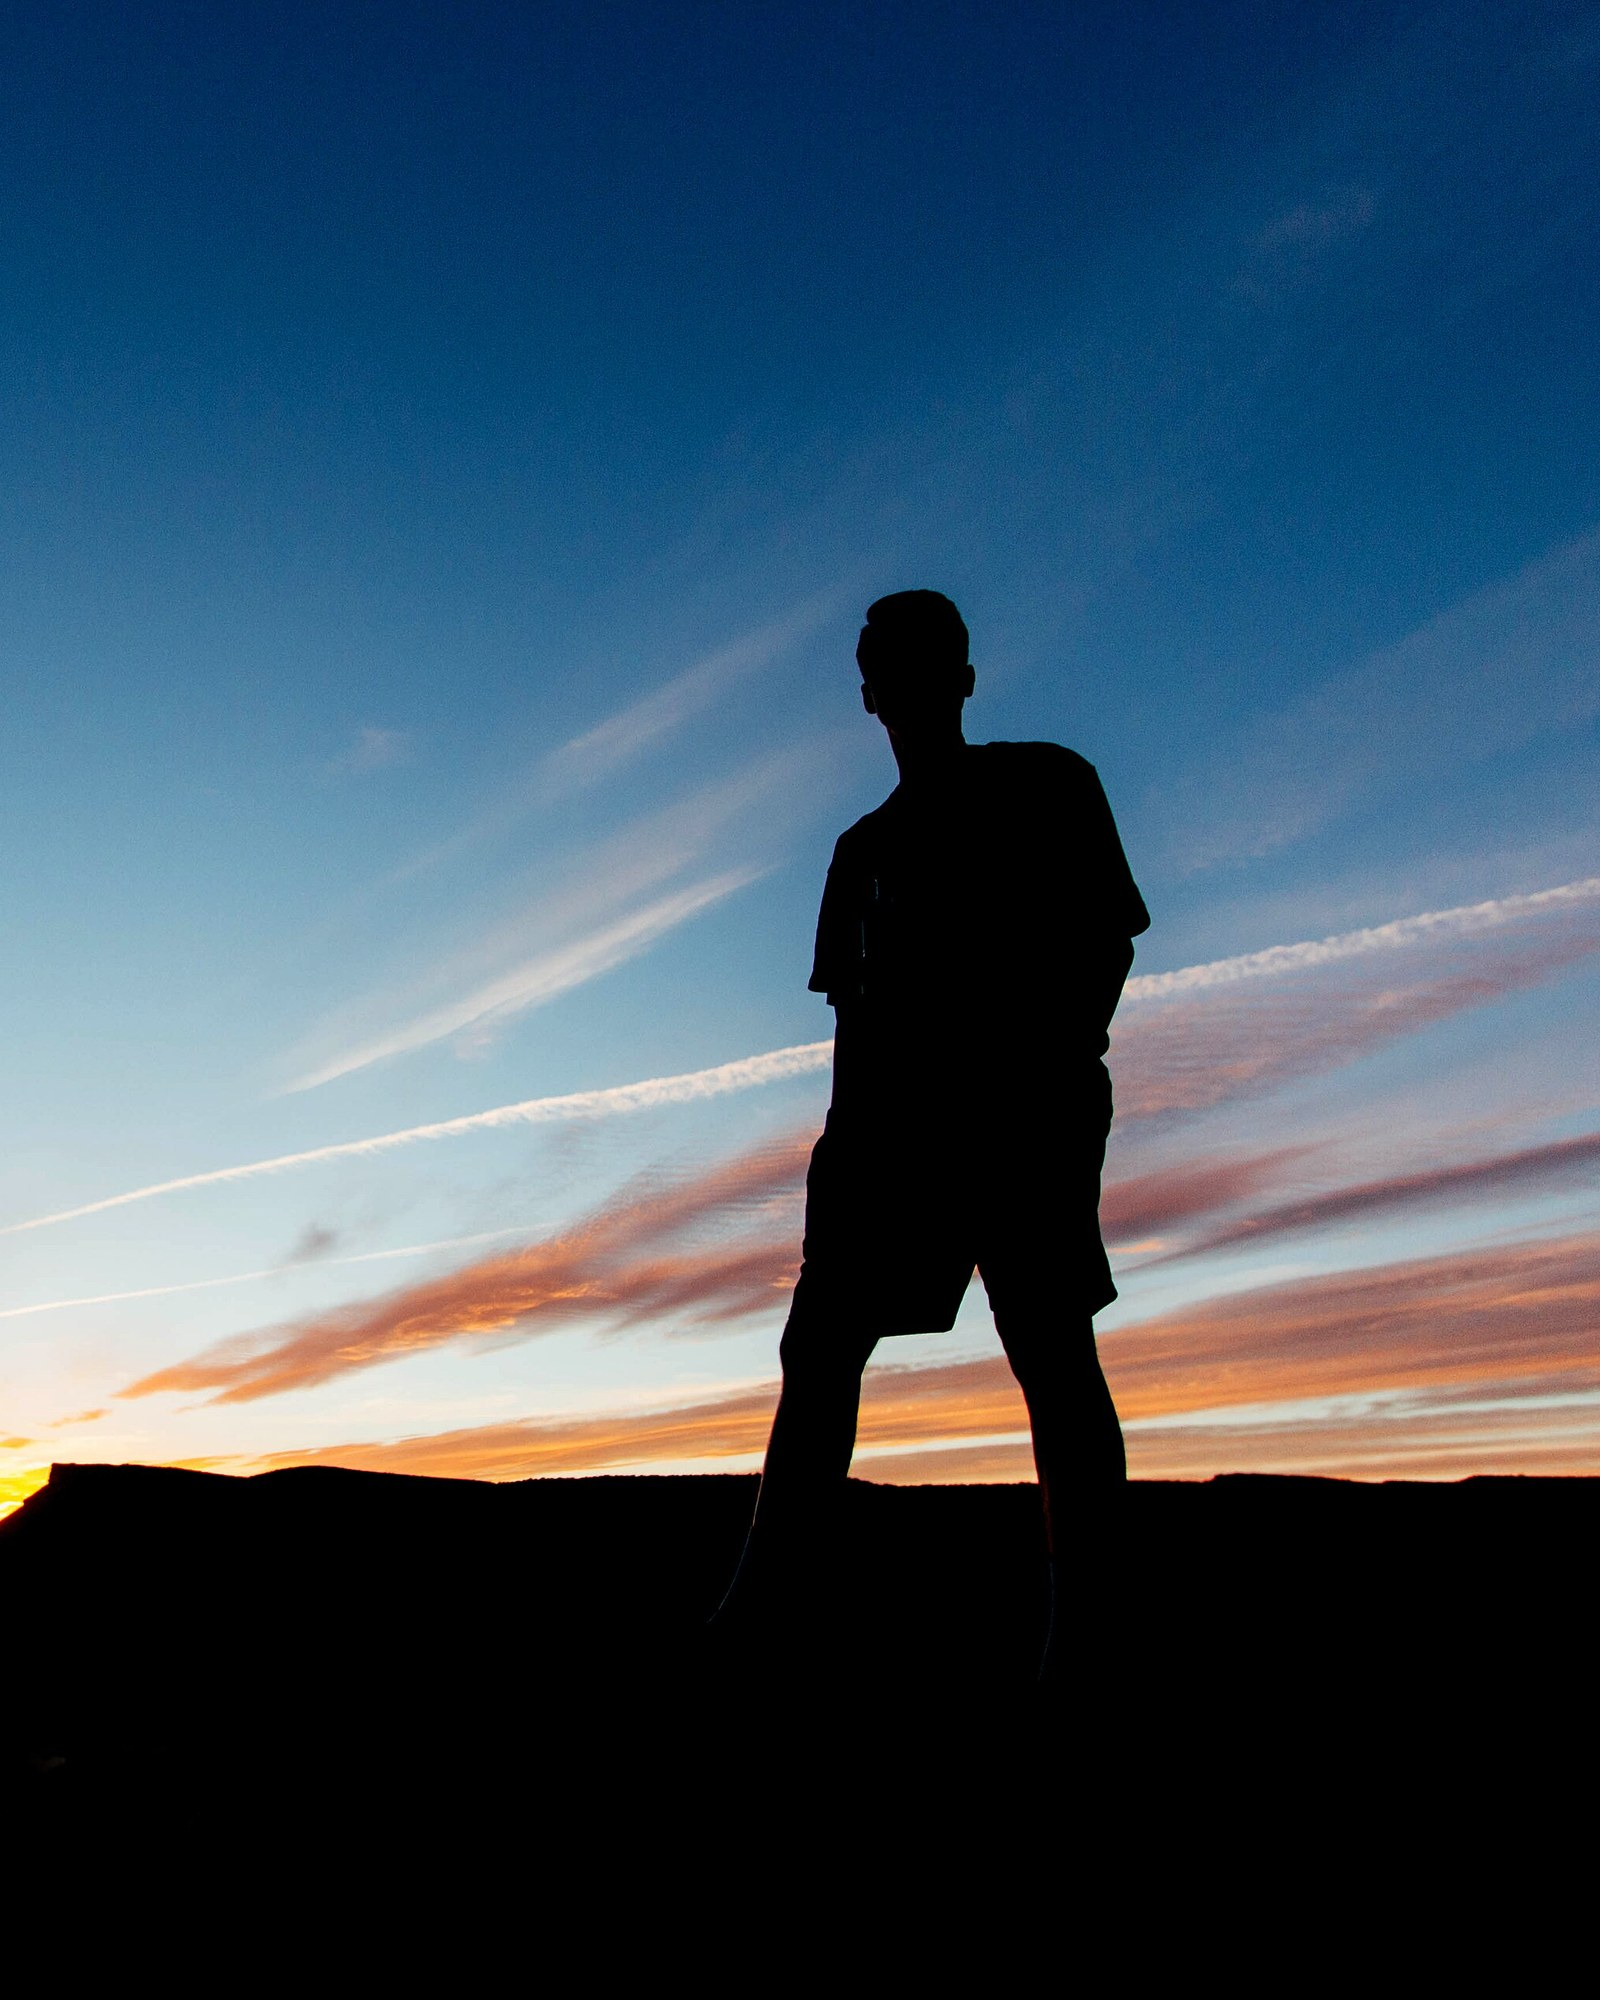
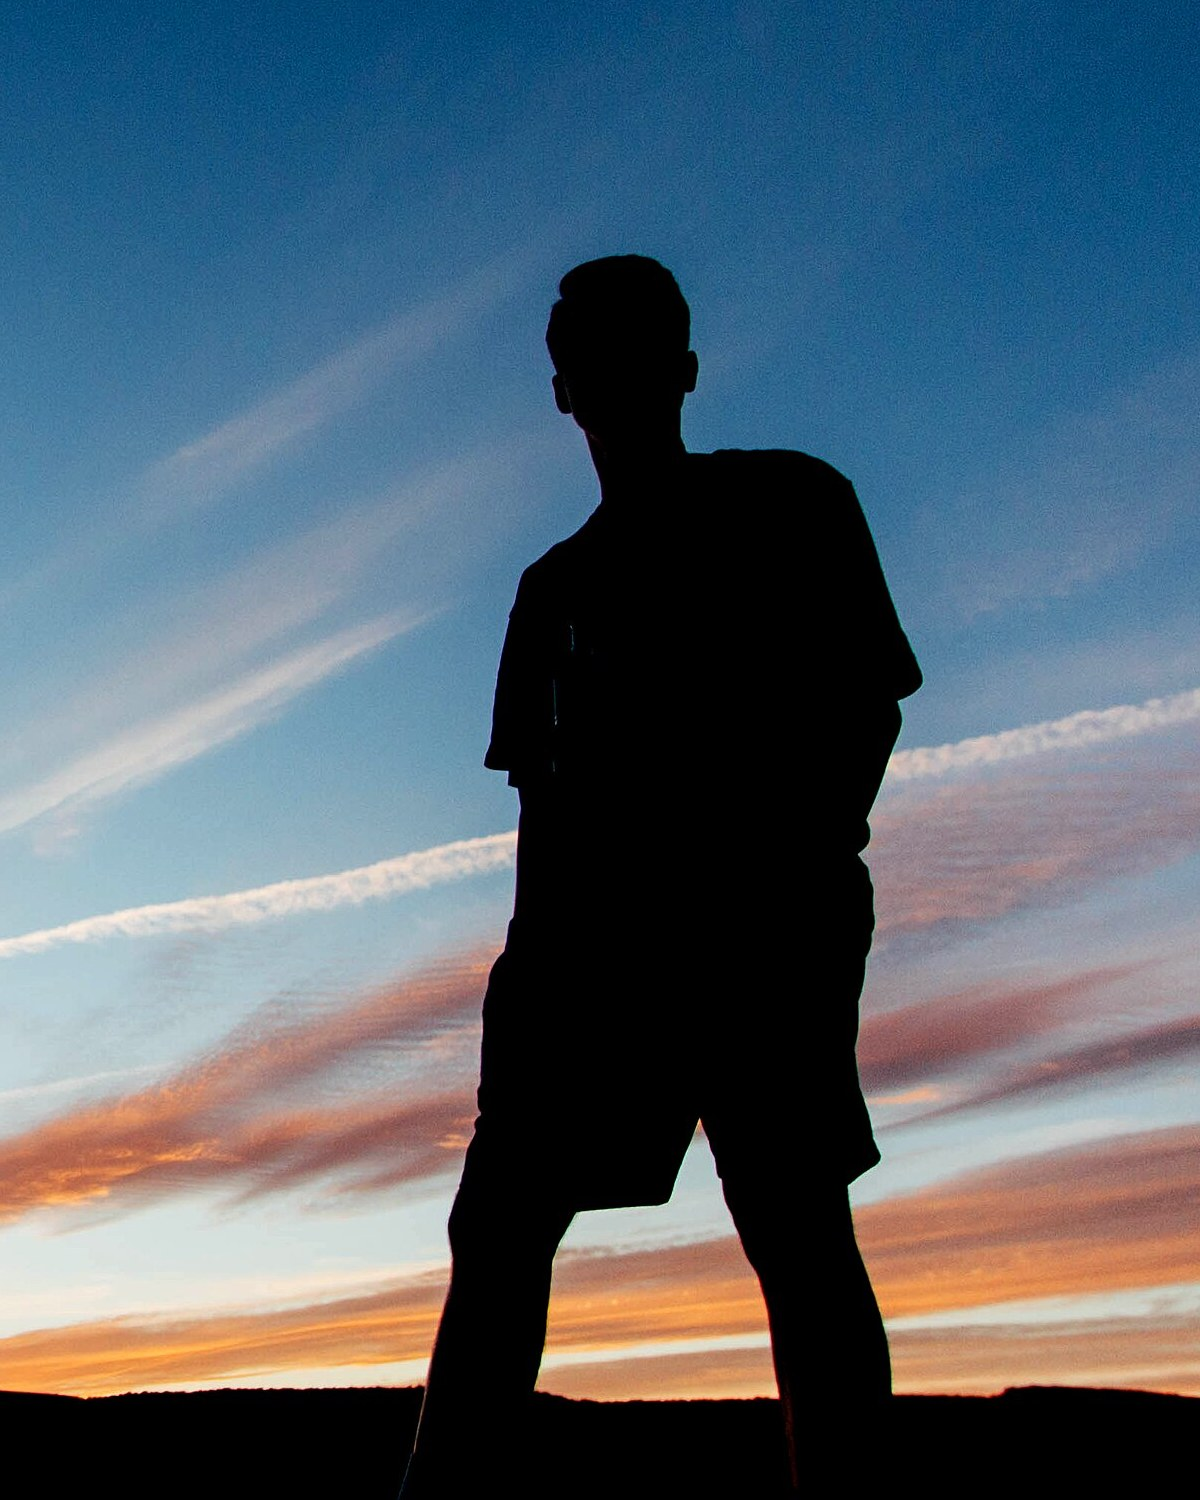
fix(site-templates): Marigold Marquee polish
The hero portrait is now a speaker seen from behind addressing an
audience, a US federal public domain work of the National Cancer
Institute (1988), in place of an Unsplash file whose CC0 rested on an
undated upload; a cap's printed emblem is painted out. about.jpg records
the dates that put it under Unsplash's CC0 and is cropped closer, so the
figure fills the frame and the frame's corner reads on the ink.

The featured event's See all dates link sits under its sentence and the
panel's columns are centred on each other; the Events list closes with a
hairline under its last row; a portrait is ringed in the base colour, so
its frame and the offset block stay two shapes with no photo; the
footer's note and tagline are shorter. Stale comments and the unused
position options are gone.

diff --git a/packages/sdk-components-organizeos/src/site-templates/campaign/marigold-marquee/sections.tsx b/packages/sdk-components-organizeos/src/site-templates/campaign/marigold-marquee/sections.tsx
@@ -40,8 +40,8 @@ import {
   titleStyles,
 } from "./styles";
 
-// The sections more than one of Marigold Marquee's pages use, each a kit
-// section named from the vocabulary.
+// The sections Marigold Marquee's pages are built from, each a kit section
+// named from the vocabulary.
 
 /**
  * Page header: Plain, on the ink: the eyebrow names the page, the h1 says
@@ -243,8 +243,9 @@ export const issuesRows = ({
 /**
  * Events: Card grid, of one: the next event, featured in a marigold-outlined
  * panel beside the reason to come and a "See all dates" link to the Events
- * page, where the Event List is. On phones the card follows the text and the
- * link follows the card.
+ * page, where the Event List is; the two columns centred on each other, so
+ * the shorter one sits in the middle of the taller. On phones the card
+ * follows the text and its link.
  */
 export const featuredEvent = ({
   placeBlock,
@@ -268,7 +269,7 @@ export const featuredEvent = ({
           ...css`
             display: grid;
             grid-template-columns: minmax(0, 5fr) minmax(0, 6fr);
-            grid-template-rows: auto 1fr;
+            align-items: center;
             column-gap: ${SPACE[64]};
             row-gap: ${SPACE[24]};
             padding-top: ${SPACE[48]};
@@ -284,7 +285,6 @@ export const featuredEvent = ({
             }
             ${BREAKPOINT.landscape} {
               grid-template-columns: minmax(0, 1fr);
-              grid-template-rows: auto;
               row-gap: ${SPACE[24]};
               padding-top: ${SPACE[24]};
               padding-right: ${SPACE[16]};
@@ -298,16 +298,6 @@ export const featuredEvent = ({
           {text("p", eyebrowStyles(), eyebrow, "Eyebrow")}
           {text("h2", headingStyles(), heading)}
           {text("p", paragraphStyles(), intro)}
-        </ws.element>
-        <ws.element
-          ws:tag="div"
-          ws:style={css`
-            align-self: end;
-            ${BREAKPOINT.landscape} {
-              order: 2;
-            }
-          `}
-        >
           {quietLink(pageIds, { label: "See all dates", pageKey: "events" })}
         </ws.element>
         {placeBlock("@organizeos/site-components:EventCard", "featured", {
@@ -318,9 +308,9 @@ export const featuredEvent = ({
   });
 
 /**
- * Events: List. The Event List of everything coming up as dated rows, each
- * under a hairline as the issues' rows are; its looks are in the template's
- * blockTokens (./block-tokens).
+ * Events: List. The Event List of everything coming up as dated rows
+ * between hairlines, as the issues' rows are; its looks are in the
+ * template's blockTokens (./block-tokens).
  */
 export const eventsList = ({
   placeBlock,
@@ -384,8 +374,8 @@ const opportunity = (
 );
 
 /**
- * Volunteer opportunities: Cards, three up (two from 768px to 991px), one
- * column on phones, each under a mint top rule with a link to `link`.
+ * Volunteer opportunities: Cards, three up from 768px, one column on phones,
+ * each under a mint top rule with a link to `cardLink`.
  */
 export const opportunitiesSection = ({
   pageIds,

diff --git a/packages/sdk-components-organizeos/src/site-templates/campaign/marigold-marquee/index.tsx b/packages/sdk-components-organizeos/src/site-templates/campaign/marigold-marquee/index.tsx
@@ -17,20 +17,30 @@ import { volunteer } from "./pages/volunteer";
 // section 5.1, template 4; its look is
 // 2026-10-31-website-template-directions.md, section 2.4, the wave's one dark
 // base). Its pages are in ./pages; what they share is its look (./styles),
-// its pieces (./parts), the sections more than one page uses (./sections)
+// its pieces (./parts), the sections its pages are built from (./sections)
 // and the sample items (./sample-content); its look for the platform blocks
 // it places is ./block-tokens. Donate is the platform's /donate, linked,
 // never a page of the template. Neutral for any party or none: no party,
 // position, real person or place is named, and no photo shows a face that
 // could be read as the candidate's.
 //
-// The two portraits are CC0 photos from Unsplash (2016 and 2017, before its
-// licence changed), by way of Wikimedia Commons, each a figure in
-// silhouette: cropped 4:5, resized and compressed. volunteer.jpg is a public
-// domain work of the US Army Corps of Engineers, from Wikimedia Commons,
-// cropped, resized and compressed; painted out: the agency's red mark and the
-// two lines of its name on the comment card at the front (filled with the
-// card's own paper and grain), and the crop leaves out that card's QR code.
+// The photos, each cropped, resized and compressed:
+// - hero.jpg: a speaker seen from behind, addressing an audience. A public
+//   domain work of the National Cancer Institute (NIH), by its staff
+//   photographer Bill Branson, November 1988 (NCI Visuals Online 2385, "Reuse
+//   Restrictions: None"; Commons licence {{PD-USGov-HHS-NIH}}). Painted out:
+//   the printed emblem on a white cap in the back rows (filled with the cap's
+//   own crown); the crop leaves out a shopping bag's lettering at the left.
+// - about.jpg: a figure in silhouette against a sunset sky. CC0 from Unsplash
+//   (photo kypCqYxosY4, Evan Kirby), published before Unsplash's licence
+//   changed on 5 June 2017: its image id (photo-1455595708577) is a
+//   timestamp, 2016-02-16, and the Wayback Machine holds its Unsplash page as
+//   of 2017-05-03 (web.archive.org/web/20170503081051/https://unsplash.com/
+//   photos/kypCqYxosY4), both recorded on the Commons page.
+// - volunteer.jpg: a public domain work of the US Army Corps of Engineers.
+//   Painted out: the agency's red mark and the two lines of its name on the
+//   comment card at the front (filled with the card's own paper and grain);
+//   the crop leaves out that card's QR code.
 
 export const marigoldMarqueeTemplate: SiteTemplate = {
   id: "marigold-marquee",
@@ -56,7 +66,7 @@ export const marigoldMarqueeTemplate: SiteTemplate = {
     "hero.jpg": {
       url: heroUrl,
       sourceUrl:
-        "https://commons.wikimedia.org/wiki/File:Silhouette_in_front_of_window_(Unsplash).jpg",
+        "https://commons.wikimedia.org/wiki/File:Woman_speaks_to_crowd.jpg",
       alt: "Replace with a portrait of your candidate, or a picture for your measure",
     },
     "about.jpg": {

diff --git a/packages/sdk-components-organizeos/src/site-templates/campaign/marigold-marquee/parts.tsx b/packages/sdk-components-organizeos/src/site-templates/campaign/marigold-marquee/parts.tsx
@@ -59,7 +59,7 @@ export const siteFooter = (pageIds: PageIds): JSX.Element =>
   footer({
     pageIds,
     name: NAME,
-    tagline: sample("[Candidate name] for [Office], [Year]."),
+    tagline: sample("[Candidate name] for [Office]"),
     columns: [
       {
         heading: "The campaign",
@@ -83,10 +83,11 @@ export const siteFooter = (pageIds: PageIds): JSX.Element =>
         ws:tag="p"
         ws:style={css`
           margin: 0;
+          text-wrap-style: pretty;
         `}
       >
         {sample(
-          "Paid for by [Committee name]. Replace with the exact wording your jurisdiction requires."
+          "Paid for by [Committee name]. Use the exact wording your jurisdiction requires."
         )}
       </ws.element>
     ),
@@ -160,16 +161,23 @@ export const buttons = ({
 const BLOCK_OFFSET = { base: SPACE[24], phone: SPACE[16] };
 
 /**
+ * The band of the page's own colour around a portrait, which parts it from
+ * the block behind: with no photo, the frame's accent-1 field and the block's
+ * would otherwise run together as one shape.
+ */
+const PORTRAIT_GAP = "6px";
+
+/**
  * A portrait in a 4:5 frame with a solid marigold block offset behind it,
  * down and to the right; the frame keeps that room inside its own column.
  * The photo has the template's corners and is cropped to fill the frame,
- * over an accent-1 field that shows when the photo is gone. With no file it
+ * over an accent-1 field that shows when the photo is gone, and is ringed in
+ * the base colour where it overlaps the block (PORTRAIT_GAP). With no file it
  * is the builder's placeholder, the "put your portrait here" slot.
  */
 export const portrait = (
   { image, imageAlt }: PageContext,
-  file: string | undefined,
-  { position = "50% 50%" }: { position?: string } = {}
+  file: string | undefined
 ): JSX.Element => (
   <ws.element
     ws:tag="div"
@@ -215,9 +223,9 @@ export const portrait = (
         height: auto;
         aspect-ratio: 4 / 5;
         object-fit: cover;
-        object-position: ${position};
         border-radius: ${RADIUS};
         background-color: var(--accent-1);
+        box-shadow: 0 0 0 ${PORTRAIT_GAP} var(--base);
       `}
     />
   </ws.element>
@@ -230,7 +238,7 @@ export const portrait = (
 export const photo = (
   { image, imageAlt }: PageContext,
   file: string,
-  { ratio, position = "50% 50%" }: { ratio: string; position?: string }
+  { ratio }: { ratio: string }
 ): JSX.Element => (
   <$.Image
     ws:label="Photo"
@@ -242,7 +250,6 @@ export const photo = (
       height: auto;
       aspect-ratio: ${ratio};
       object-fit: cover;
-      object-position: ${position};
       border-radius: ${RADIUS};
       background-color: var(--accent-1);
     `}

diff --git a/packages/sdk-components-organizeos/src/site-templates/campaign/marigold-marquee/block-tokens.ts b/packages/sdk-components-organizeos/src/site-templates/campaign/marigold-marquee/block-tokens.ts
@@ -7,7 +7,7 @@ import { HAIRLINE, RADIUS } from "./styles";
 // (SiteTemplate.blockTokens, and each events block's root style): the
 // featured event as a cover card with no chrome of its own (the marigold
 // panel around it is the frame), the Event List as dated rows with a mint
-// date column, each closed by a hairline, the empty line as a hairline box,
+// date column, each under a hairline, the empty line as a hairline box,
 // and the Signup Form's fields and button in the template's 6px corners.
 // Every declaration replaces the block's own of the same key, so shorthands
 // are written as the longhands the blocks declare.
@@ -117,8 +117,14 @@ export const blockTokens: SiteTemplate["blockTokens"] = {
     padding-right: ${SPACE[32]};
     padding-bottom: ${SPACE[24]};
     padding-left: ${SPACE[32]};
-    border-width: 1px;
-    border-style: solid;
+    border-top-width: 1px;
+    border-right-width: 1px;
+    border-bottom-width: 1px;
+    border-left-width: 1px;
+    border-top-style: solid;
+    border-right-style: solid;
+    border-bottom-style: solid;
+    border-left-style: solid;
     border-top-color: ${HAIRLINE};
     border-right-color: ${HAIRLINE};
     border-bottom-color: ${HAIRLINE};
@@ -192,34 +198,28 @@ export const blockTokens: SiteTemplate["blockTokens"] = {
 };
 
 /**
- * The Event Card's root in the featured panel: one column, the card beside
- * the panel's text on a wide window (the second column, both rows, as tall
- * as its card or its empty line), after the text on phones.
+ * The Event Card's root in the featured panel: one column, as tall as its
+ * card or its empty line (the panel centres it beside the text).
  */
 export const eventCardStyle = (): BlockStyle => css`
   grid-template-columns: minmax(0, 1fr);
-  align-self: start;
-  grid-column-start: 2;
-  grid-row-start: 1;
-  grid-row-end: span 2;
-  ${BREAKPOINT.landscape} {
-    grid-column-start: auto;
-    grid-row-start: auto;
-    grid-row-end: auto;
-    order: 1;
-  }
 `;
 
 /**
  * The Event List's root on the Events page: one column of rows, each under
- * its own hairline (OS Event Row), so with no events the empty line's box
- * stands alone under the heading.
+ * a hairline (OS Event Row), and the list closed by one beneath its last
+ * row, as the issues' rows are.
  */
 export const eventListStyle = (): BlockStyle => css`
   grid-template-columns: minmax(0, 1fr);
   column-gap: 0;
   row-gap: ${SPACE[24]};
+  padding-bottom: ${SPACE[24]};
+  border-bottom-width: 1px;
+  border-bottom-style: solid;
+  border-bottom-color: ${HAIRLINE};
   ${BREAKPOINT.landscape} {
     row-gap: ${SPACE[16]};
+    padding-bottom: ${SPACE[16]};
   }
 `;
